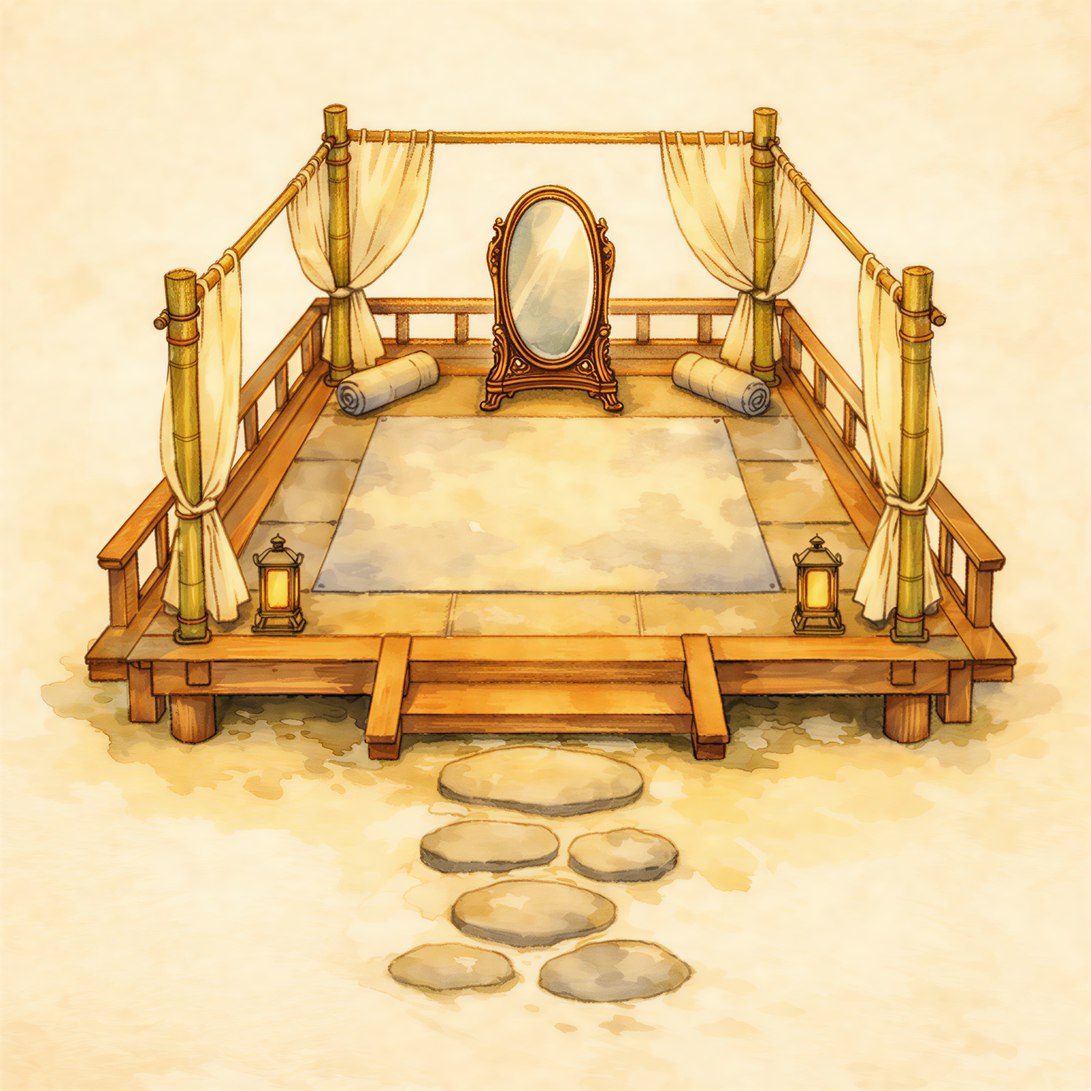
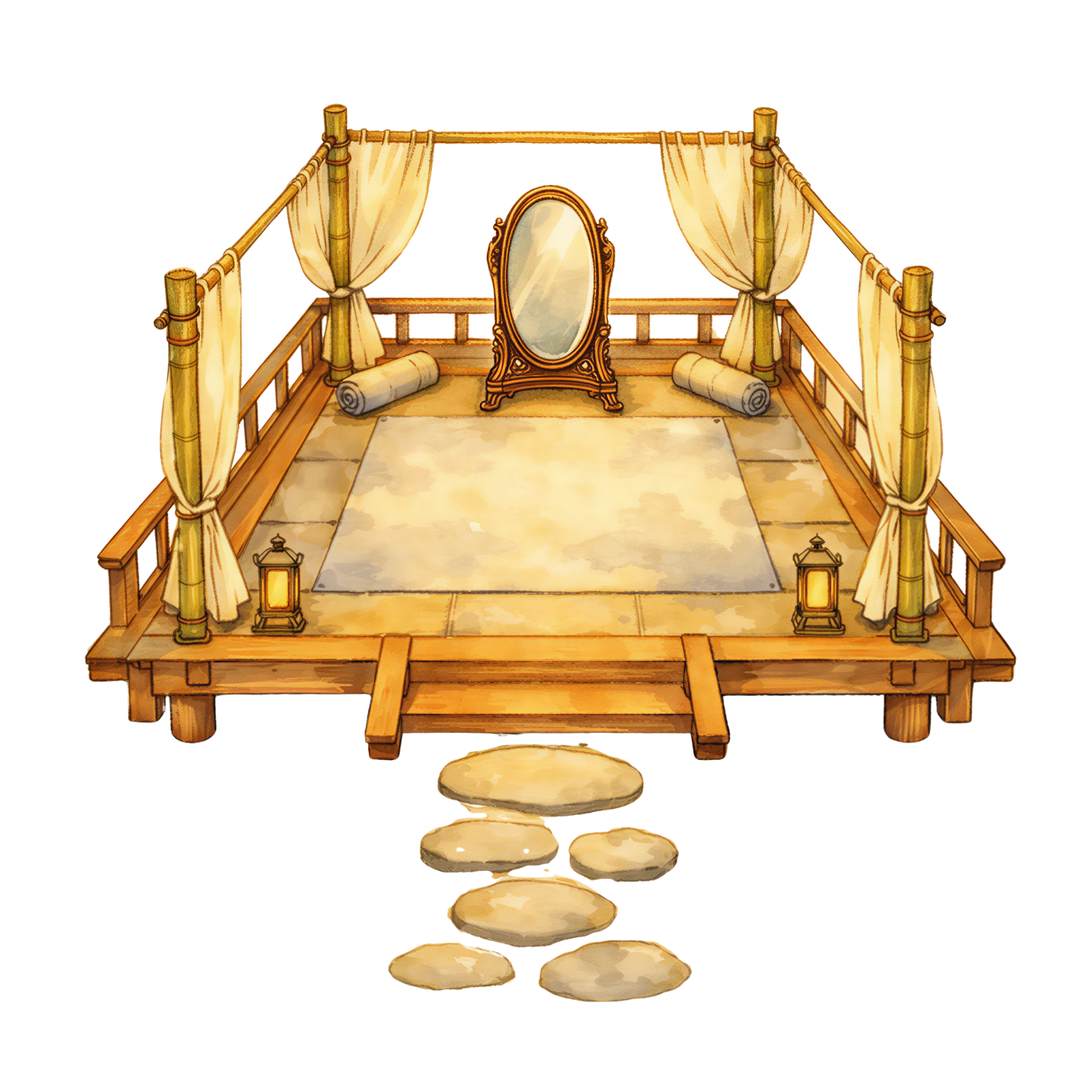
fix: substitui imagens dos POIs pelas versoes com fundo transparente (Editado)

diff --git a/CLAUDE.md b/CLAUDE.md
@@ -485,7 +485,7 @@ SetupScreen (nome) → initPlayer() → OnboardingFlow → Dashboard (com missõ
 
 ### Fix — POI Markers com fundo transparente ✅ (2026-04-15)
 
-- Imagens de POI em `src/assets/pois/` substituídas por versões com fundo transparente (PNG)
+- Imagens de POI em `src/assets/pois/` substituídas por versões "Editado" com fundo transparente (PNG sem background)
 - `POIMarker.tsx` — `mixBlendMode: 'multiply'` removido; estruturas aparecem pintadas no mapa sem retângulo
 
 ### Próximos Passos
